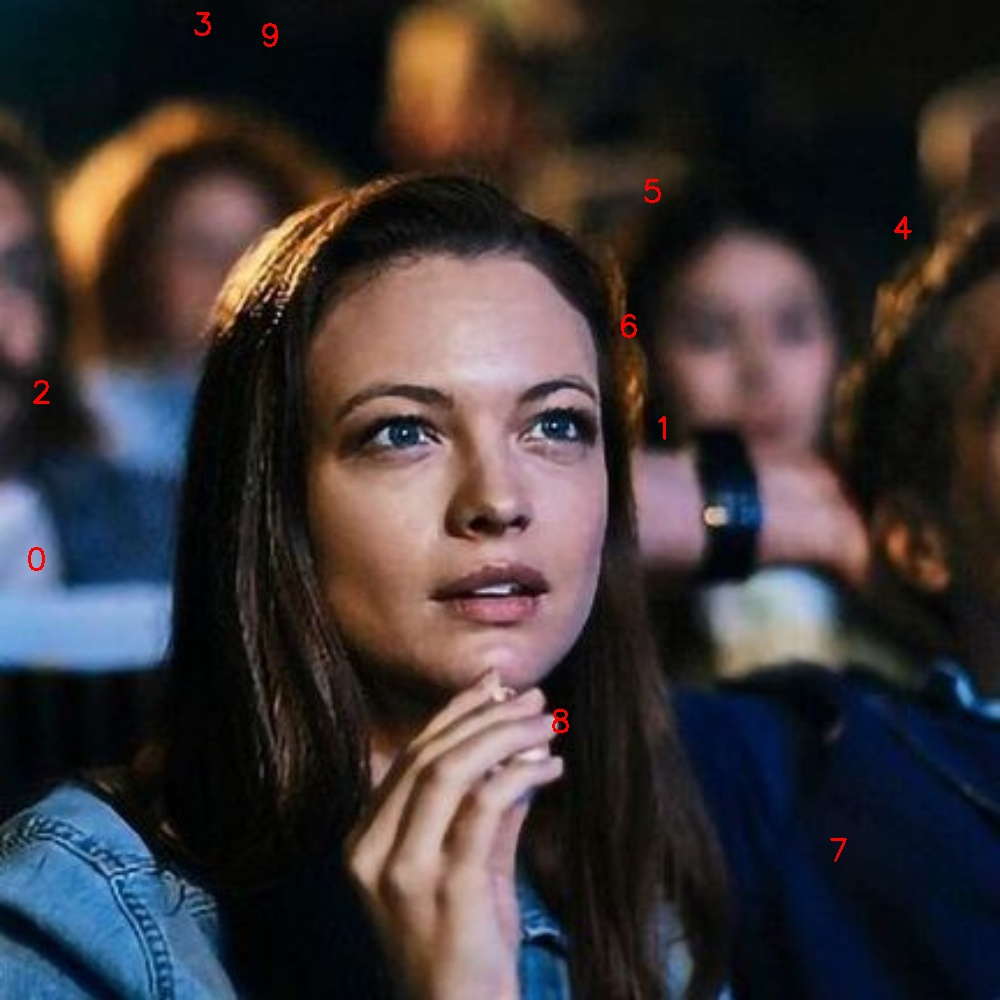
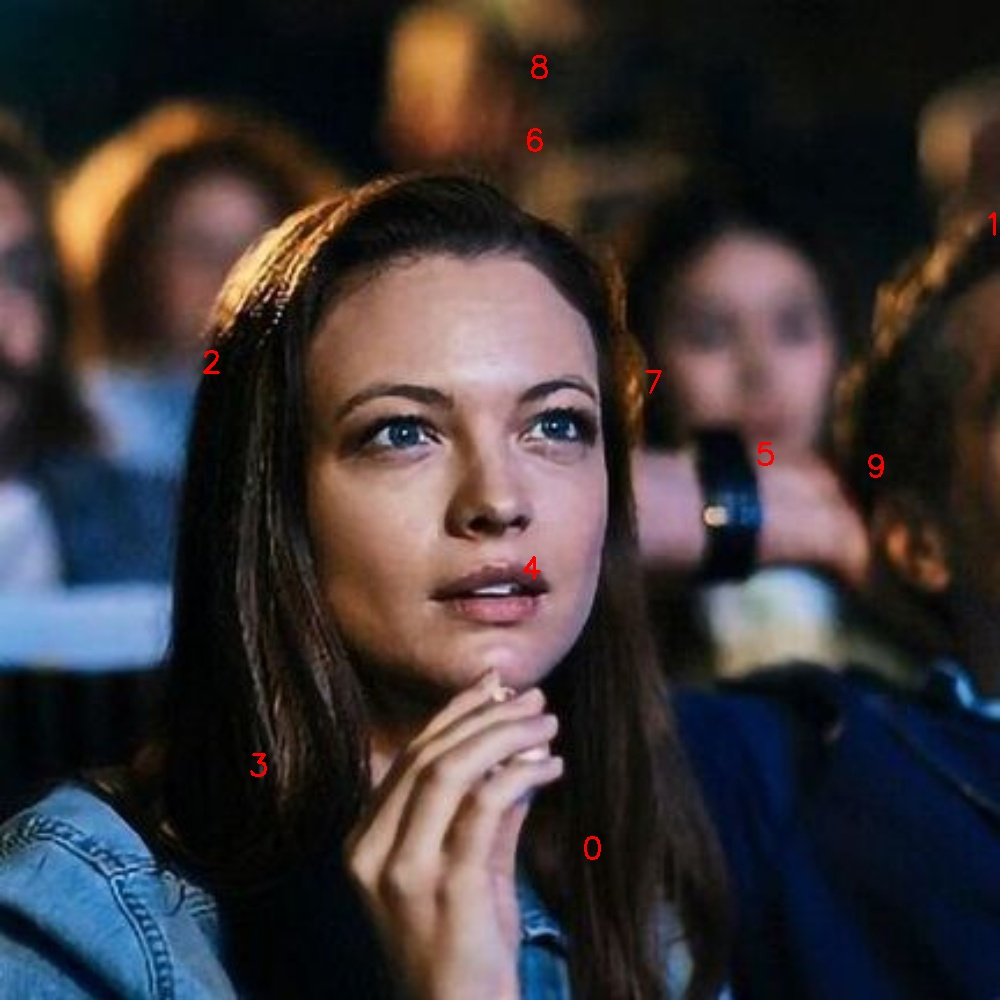
datagenerator improved

diff --git a/PointLocator.py b/PointLocator.py
@@ -25,7 +25,7 @@ def load_and_display_mainImageAndCenter(filename,point = (0.5,0.5)): # point fro
     
     
 
-def load_and_display_trsnformed_image(filename,tras_filename,point = (0.5,0.5)): # point from top left corner image coordinte system
+def load_and_display_trsnformed_image(filename,tras_filename,point = (0.5,0.5),show=False): # point from top left corner image coordinte system
     image = cv2.imread(filename)
     h,w,_ = image.shape
     mat =[]
@@ -41,14 +41,16 @@ def load_and_display_trsnformed_image(filename,tras_filename,point = (0.5,0.5)):
     pos =pos.to_list()
     point = gl_to_imge([pos[0]/pos[2],pos[1]/pos[2]])
     center = ( point[0],point[1])
-    # utils.drawdots(image,[center])
-    # cv2.imshow('image',image)
-    # cv2.waitKey(0)
-    # cv2.destroyAllWindows()
+    if(show):
+        utils.drawdots(image,[(center[0]*w,center[1]*h)])
+        print(center)
+        cv2.imshow('image',image)
+        cv2.waitKey(0)
+        cv2.destroyAllWindows()
     return center
     
 
 
-# point = (0.4,0.6)
-# load_and_display_mainImageAndCenter('test/img/cinema1.jpeg',point)
-# load_and_display_trsnformed_image('dataset/img/output2.png','dataset/trans/output2.pkl',point)
+point = (0.4,0.6)
+load_and_display_mainImageAndCenter('test/img/cinema1.jpeg',point)
+load_and_display_trsnformed_image('dataset/img/output2.png','dataset/trans/output2.pkl',point,True)
